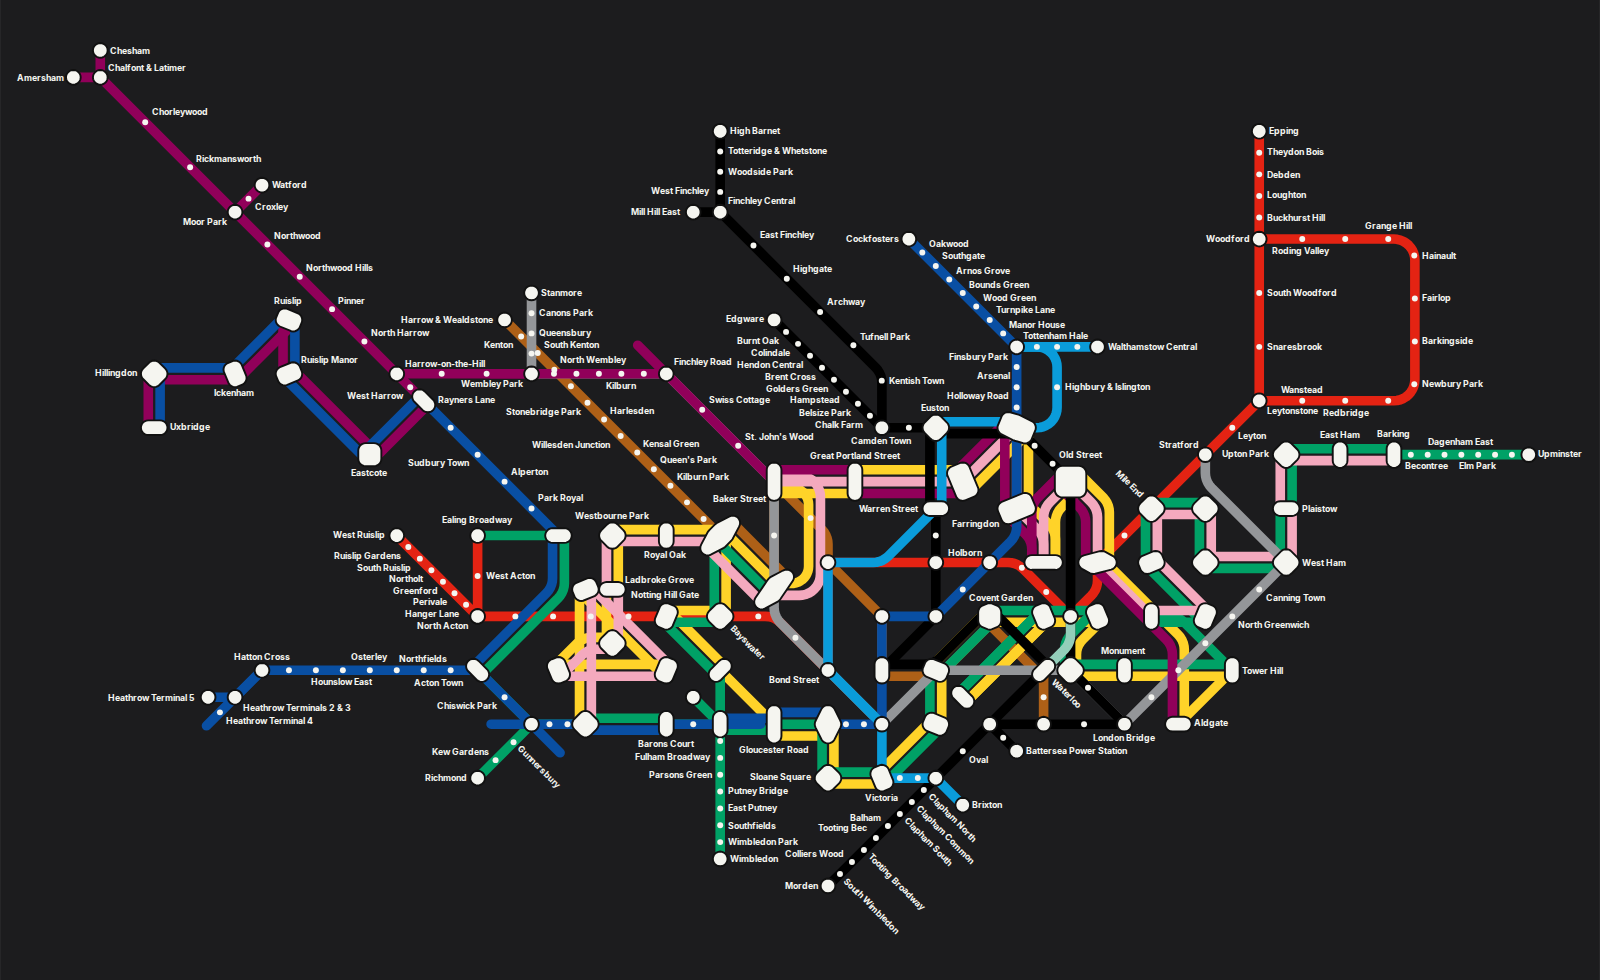
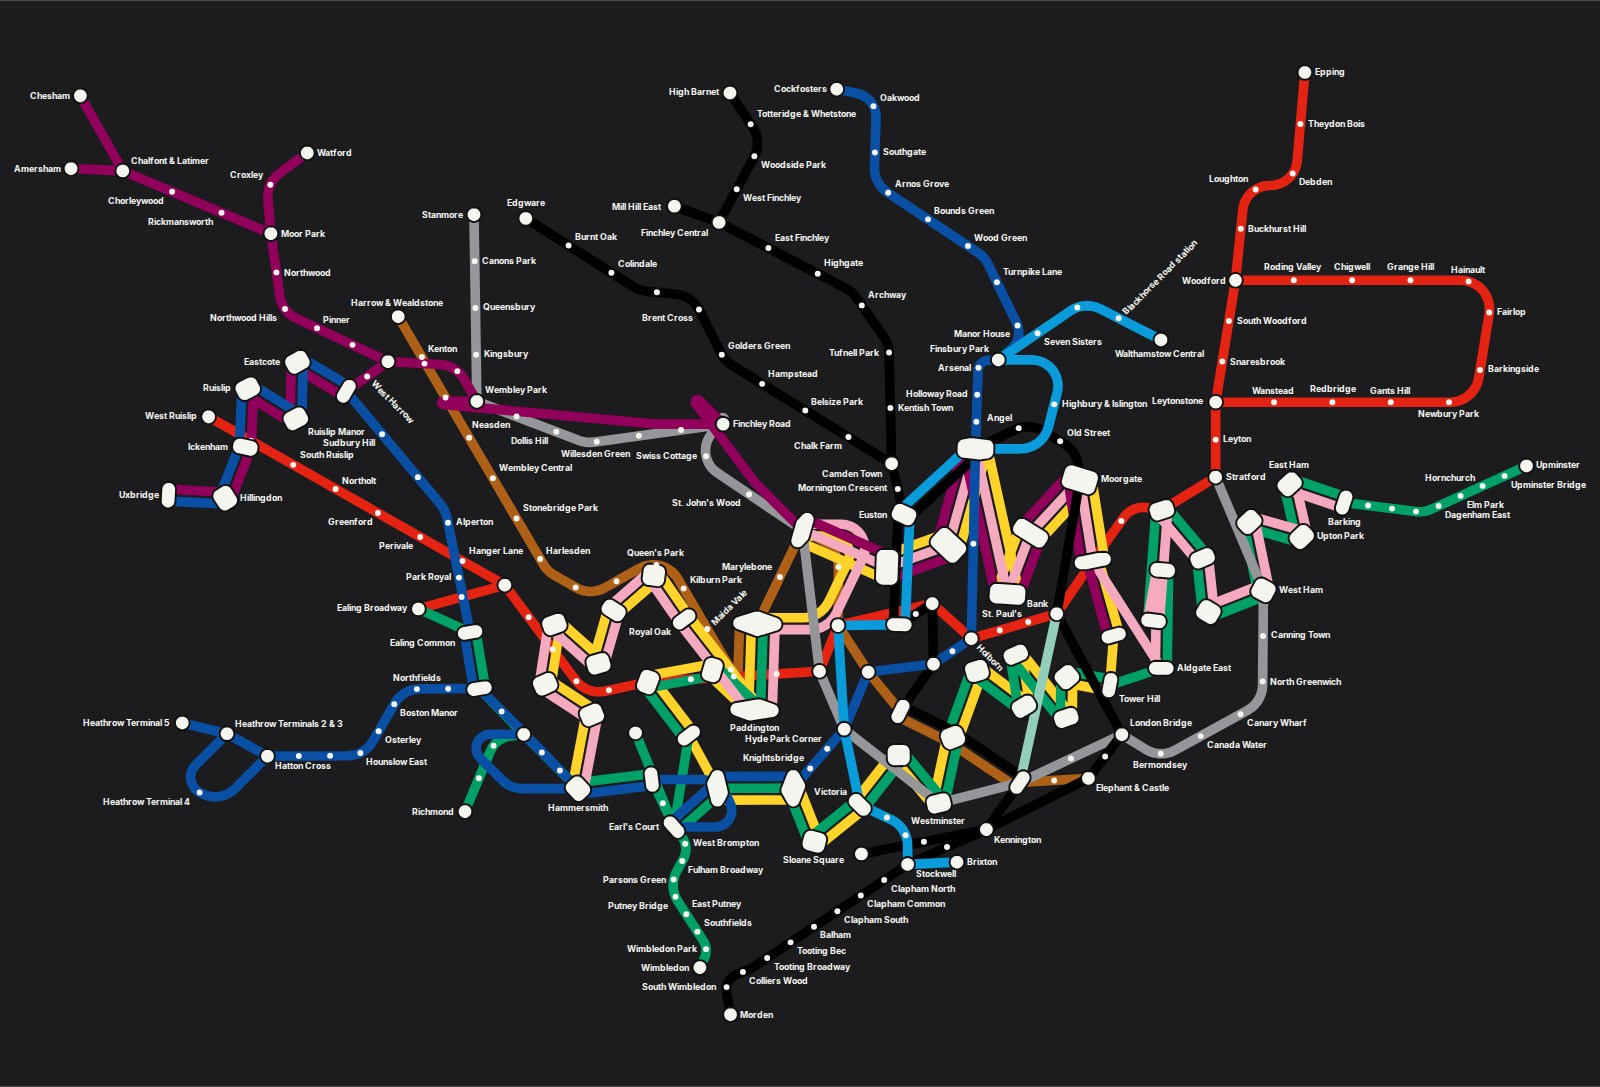
Semi-geographic layout mode (default): fisheye geography, smoothed corridors with 30° angle steps, straight runs between adjacent interchanges; re-rendered city maps
Claude-Session: https://claude.ai/code/session_01MBsjaw49DwxCbAxCaJEcQU

Changed region(s): [[0.0, 0.0306, 1.0, 0.949], [0.8125, 0.0612, 0.8438, 0.1224], [0.1875, 0.1224, 0.2188, 0.1531]]

diff --git a/packages/core/src/layout/route.ts b/packages/core/src/layout/route.ts
@@ -133,6 +133,50 @@ export interface RouteOptions {
   arcSegments: number;
   /** Detour distance (mm) for duplicate corridors between the same stations. */
   detour: number;
+  /** 'octilinear': 1-bend 45° paths between majors · 'smooth': follow the geographic path, angles snapped to `angleStep`. */
+  style?: 'octilinear' | 'smooth';
+  /** Angle quantum (degrees) for smooth corridors, e.g. 30. */
+  angleStep?: number;
+  /** Simplification tolerance (mm) for smooth corridors. */
+  simplifyTol?: number;
+}
+
+/** Douglas–Peucker simplification keeping the first and last points. */
+export function simplifyDP(pts: Vec2[], tol: number): Vec2[] {
+  if (pts.length < 3) return pts;
+  const a = pts[0], b = pts[pts.length - 1];
+  let idx = -1, dmax = 0;
+  for (let i = 1; i < pts.length - 1; i++) { const d = pointSegDistLocal(pts[i], a, b); if (d > dmax) { dmax = d; idx = i; } }
+  if (dmax > tol && idx > 0) {
+    const left = simplifyDP(pts.slice(0, idx + 1), tol), right = simplifyDP(pts.slice(idx), tol);
+    return left.slice(0, -1).concat(right);
+  }
+  return [a, b];
+}
+function pointSegDistLocal(p: Vec2, a: Vec2, b: Vec2): number {
+  const ab = sub(b, a); const l2 = dot(ab, ab);
+  if (l2 < 1e-12) return dist(p, a);
+  const t = Math.max(0, Math.min(1, dot(sub(p, a), ab) / l2));
+  return dist(p, add(a, mul(ab, t)));
+}
+
+/**
+ * Snap every segment direction to a multiple of `stepDeg`, rebuild the chain, then spread the
+ * end-point error linearly over the vertices so both ends stay exactly where they were.
+ */
+export function snapAngles(pts: Vec2[], stepDeg: number): Vec2[] {
+  if (pts.length < 3) return pts;
+  const step = (stepDeg * Math.PI) / 180;
+  const out: Vec2[] = [pts[0]];
+  for (let i = 1; i < pts.length; i++) {
+    const d = sub(pts[i], pts[i - 1]);
+    const L = len(d);
+    const ang = Math.round(angleOf(d) / step) * step;
+    out.push(add(out[i - 1], fromAngle(ang, L)));
+  }
+  const err = sub(pts[pts.length - 1], out[out.length - 1]);
+  const n = out.length - 1;
+  return out.map((q, i) => add(q, mul(err, i / n)));
 }
 
 /** Build corridor centre paths and per-line offset paths. Positions must already be in mm. */
@@ -149,7 +193,16 @@ export function buildCorridorGeometry(graph: StationGraph, opts: RouteOptions): 
     let center: Vec2[];
     const dup = pairCount.get(pairKey(c)) ?? 0;
     pairCount.set(pairKey(c), dup + 1);
-    if (dup === 0 || c.a === c.b) center = octilinearPath(A.pos, B.pos, prefer);
+    if (opts.style === 'smooth' && dup === 0 && c.a !== c.b && c.interior.length === 0) {
+      center = [A.pos, B.pos]; // adjacent majors: always a straight run
+    } else if (opts.style === 'smooth' && dup === 0 && c.a !== c.b) {
+      // Geographic path through the interior stations, simplified, angle-snapped, ends fixed.
+      const raw: Vec2[] = [A.pos, ...c.interior.map((id) => graph.nodes.get(id)!.pos), B.pos];
+      let simp = simplifyDP(dedupe(raw), opts.simplifyTol ?? 6);
+      if (opts.angleStep) simp = snapAngles(simp, opts.angleStep);
+      // Merge nearly-collinear vertices left over after snapping.
+      center = simplifyCollinear(dedupe(simp), 0.02);
+    } else if (dup === 0 || c.a === c.b) center = octilinearPath(A.pos, B.pos, prefer);
     else {
       // Bulge to the side of the geographic detour: A -> A+off -> B+off -> B, off snapped to 45°.
       const mid = mul(add(A.pos, B.pos), 0.5);

diff --git a/packages/core/src/layout/index.ts b/packages/core/src/layout/index.ts
@@ -1,7 +1,7 @@
 /** Layout orchestration: network -> MapLayout (mm). */
 import type { DesignParams, LayoutLabel, LayoutLine, LayoutStation, MapLayout, MetroNetwork, Vec2 } from '../types.js';
 import { buildStationGraph, type StationGraph } from './graph.js';
-import { layoutReducedGraph, snapToGrid, straighten } from './force.js';
+import { layoutReducedGraph, snapToGrid, straighten, applyFisheye, relaxMajors } from './force.js';
 import { buildCorridorGeometry, splitForBed, paramOf, pointAt, dedupe, pathLength, type CorridorGeometry } from './route.js';
 import { placeLabels, type LabelCandidateInput, type Obstacles } from './labels.js';
 import { bboxOf, dist, add, sub, mul, fromAngle } from '../vec.js';
@@ -43,9 +43,16 @@ export function dotRadius(p: DesignParams): number {
 export function computeLayout(net: MetroNetwork, params: DesignParams, font: TextFont, log?: (m: string) => void): LayoutResult {
   const graph = buildStationGraph(net);
   const lo = params.layout;
-  const strength = lo.mode === 'geographic' ? 0 : lo.schematicStrength;
-  layoutReducedGraph(graph, { strength, fisheye: lo.fisheye, iterations: lo.iterations, seed: lo.seed, lengthExponent: 0.8, anchor: 0.12, fidelityMin: 0.6, fidelityMax: 1.7 });
-  if (strength > 0.5) { snapToGrid(graph, 1); straighten(graph, 1, 4); }
+  const semi = lo.mode === 'semi';
+  const strength = lo.mode === 'geographic' || semi ? 0 : lo.schematicStrength;
+  if (semi) {
+    // Keep the geographic shape: fisheye on every station, then only spread majors that sit too close.
+    applyFisheye(graph.nodes.values(), lo.fisheye);
+    relaxMajors(graph, lo.iterations);
+  } else {
+    layoutReducedGraph(graph, { strength, fisheye: lo.fisheye, iterations: lo.iterations, seed: lo.seed, lengthExponent: 0.8, anchor: 0.12, fidelityMin: 0.6, fidelityMax: 1.7 });
+    if (strength > 0.5) { snapToGrid(graph, 1); straighten(graph, 1, 4); }
+  }
 
   // Regular (interior) stations: positions come from corridor paths later.
   const majors = [...graph.nodes.values()].filter((n) => n.major);
@@ -112,9 +119,11 @@ function buildAtScale(
   const g: StationGraph = { nodes: new Map(), corridors: graph.corridors, incident: graph.incident };
   for (const [id, n] of graph.nodes) g.nodes.set(id, { ...n, pos: [(n.pos[0] - unitBox.x) * unitMm + ox, (n.pos[1] - unitBox.y) * unitMm + oy] });
 
+  const semi = params.layout.mode === 'semi';
   const corridors = buildCorridorGeometry(g, {
     lineWidth: params.lineWidth, lineGap: params.lineGap, cornerRadius: params.cornerRadiusFactor * params.lineWidth,
     lineOrder, arcSegments: params.quality === 'print' ? 10 : 5, detour: unitMm * 1.5,
+    style: semi ? 'smooth' : 'octilinear', angleStep: semi ? 30 : undefined, simplifyTol: semi ? Math.max(4, unitMm * 0.35) : undefined,
   });
 
   // Station records

diff --git a/packages/core/src/layout/force.ts b/packages/core/src/layout/force.ts
@@ -279,3 +279,45 @@ export function straighten(graph: StationGraph, cell: number, rounds = 4, length
     if (!improved) break;
   }
 }
+
+
+/**
+ * Semi-geographic mode: majors keep their (fisheye) geographic positions, moving only as much as needed
+ * so no two markers overlap and no major sits on a foreign corridor. Units: 1 = station spacing.
+ */
+export function relaxMajors(graph: StationGraph, iterations: number): void {
+  const { nodes, corridors } = graph;
+  const majors = [...nodes.values()].filter((n) => n.major);
+  if (majors.length < 2) return;
+  // normalise so the median corridor length is 1 unit
+  const lens: number[] = [];
+  for (const c of corridors) { const d = dist(nodes.get(c.a)!.pos, nodes.get(c.b)!.pos); if (d > 1e-6) lens.push(d / Math.max(1, Math.sqrt(c.interior.length + 1))); }
+  lens.sort((a, b) => a - b);
+  const k = 1 / (lens[Math.floor(lens.length / 2)] || 1);
+  for (const n of nodes.values()) n.pos = [n.pos[0] * k, n.pos[1] * k];
+  const anchor = new Map(majors.map((n) => [n.id, [...n.pos] as Vec2]));
+  const radius = majors.map((n) => 0.45 + 0.2 * Math.max(0, n.lines.length - 1));
+  const iters = Math.max(40, Math.min(iterations, 300));
+  for (let it = 0; it < iters; it++) {
+    const disp: Vec2[] = majors.map(() => [0, 0]);
+    for (let i = 0; i < majors.length; i++) for (let j = i + 1; j < majors.length; j++) {
+      const d = sub(majors[j].pos, majors[i].pos);
+      const L = len(d), need = radius[i] + radius[j];
+      if (L < need) {
+        const push = L < 1e-6 ? [(need) * 0.5, 0] as Vec2 : mul(d, ((need - L) / L) * 0.5);
+        disp[i][0] -= push[0]; disp[i][1] -= push[1]; disp[j][0] += push[0]; disp[j][1] += push[1];
+      }
+    }
+    for (let i = 0; i < majors.length; i++) {
+      const a = sub(anchor.get(majors[i].id)!, majors[i].pos);
+      disp[i][0] += a[0] * 0.05; disp[i][1] += a[1] * 0.05;
+      const l = len(disp[i]); const step = l > 0.2 ? mul(disp[i], 0.2 / l) : disp[i];
+      majors[i].pos = add(majors[i].pos, step);
+    }
+  }
+  // Interior stations follow their neighbours' displacement so corridors keep their shape.
+  for (const c of corridors) {
+    const da = sub(nodes.get(c.a)!.pos, anchor.get(c.a)!), db = sub(nodes.get(c.b)!.pos, anchor.get(c.b)!);
+    c.interior.forEach((id, i) => { const t = (i + 1) / (c.interior.length + 1); const n = nodes.get(id)!; n.pos = add(n.pos, add(mul(da, 1 - t), mul(db, t))); });
+  }
+}

diff --git a/packages/core/src/types.ts b/packages/core/src/types.ts
@@ -47,7 +47,8 @@ export interface MetroNetwork {
 
 /* ----------------------------- Layout ----------------------------- */
 
-export type LayoutMode = 'geographic' | 'schematic';
+/** semi: geographic shape with an enlarged centre, corridors smoothed to 30° steps (official-map look) · schematic: strict octilinear grid · geographic: raw positions. */
+export type LayoutMode = 'geographic' | 'schematic' | 'semi';
 
 export interface LayoutOptions {
   mode: LayoutMode;

diff --git a/packages/core/src/defaults.ts b/packages/core/src/defaults.ts
@@ -17,7 +17,7 @@ export const DEFAULT_PARAMS: DesignParams = {
   lineWidth: 6,
   lineHeight: 2.0,
   lineGap: 1.4,
-  cornerRadiusFactor: 2.2,
+  cornerRadiusFactor: 3,
 
   dotFactor: 0.62,
   ringWidth: 1.2,
@@ -45,9 +45,9 @@ export const DEFAULT_PARAMS: DesignParams = {
   },
 
   layout: {
-    mode: 'schematic',
+    mode: 'semi',
     schematicStrength: 1,
-    fisheye: 0.55,
+    fisheye: 0.7,
     minSpacing: 1,
     iterations: 500,
     seed: 7,
